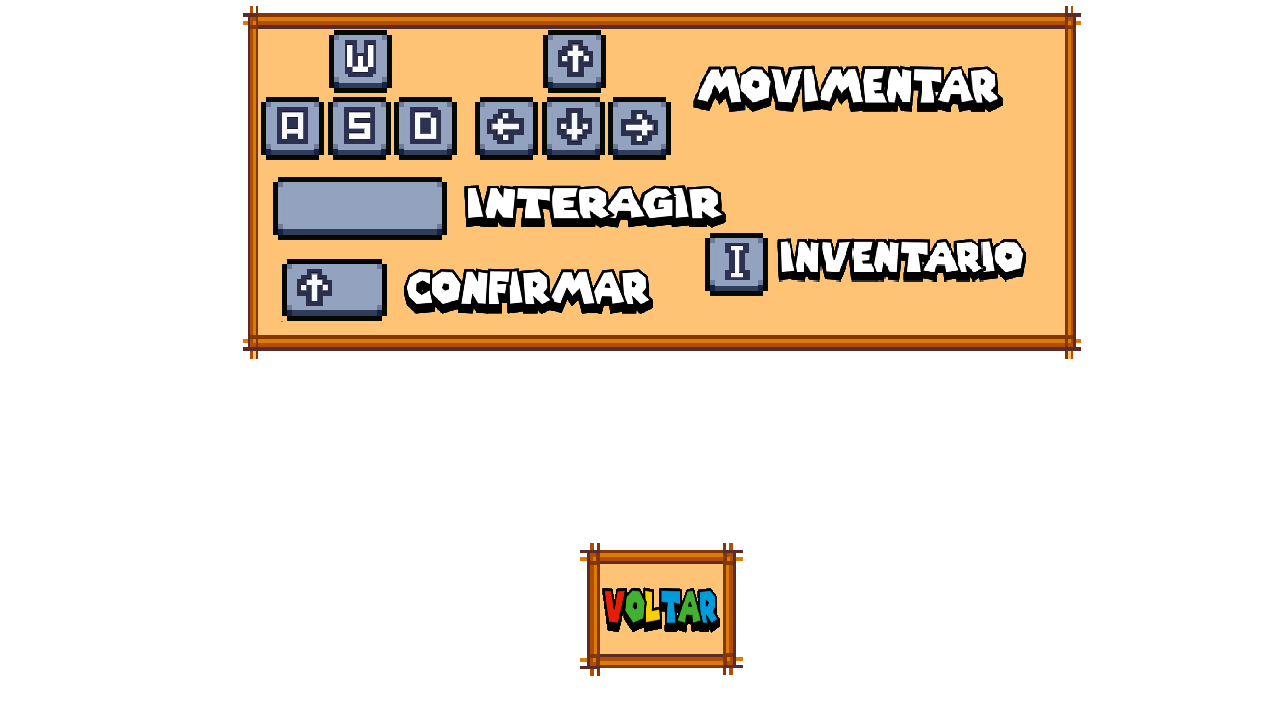
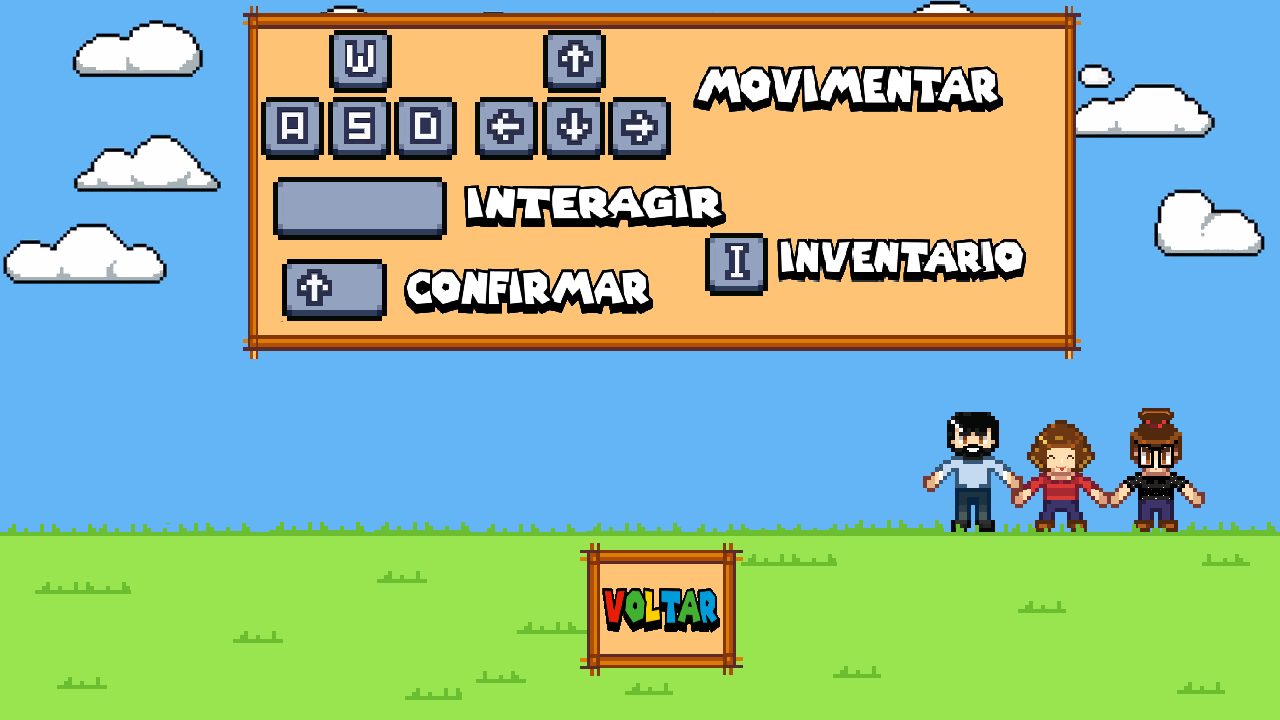
finish home menu // animation fall objects

diff --git a/main.py b/main.py
@@ -1,6 +1,9 @@
 from settings import *
 from pytmx.util_pygame import load_pygame #carrega os mapas
 from os.path import join
+from home import Home
+from credits import Credits
+from game_controls import GameControls
 from sprites import Sprite, AnimatedSprite, CollisionSprite, CollidableSprite, TransitionSprite, DialogSprite, InteractiveSprite
 from entities import Player, Character
 from inventory import Inventory
@@ -19,7 +22,6 @@ class Game:
     def __init__(self): 
         # inicialização
         self.screen = pygame.display.set_mode((WINDOW_WIDTH, WINDOW_HEIGHT))
-        pygame.display.set_caption('Super Labes World')
         self.clock = pygame.time.Clock()
         self.buff_timer = Timer(15000, autostart = True) # 15 segundos
         
@@ -49,9 +51,9 @@ class Game:
 
         # mapa iniciais
         # self.setup(self.tmx_maps['house'], 'house', 'house') #house
-        self.setup(self.tmx_maps['ponto_onibus'], 'ponto_onibus', 'house') #ponto_onibus
+        # self.setup(self.tmx_maps['ponto_onibus'], 'ponto_onibus', 'house') #ponto_onibus
         # self.setup(self.tmx_maps['ufes'], 'ufes', 'ponto_onibus') #ufes
-        # self.setup(self.tmx_maps['ct7'], 'ct7', 'ufes') #ct7
+        self.setup(self.tmx_maps['ct7'], 'ct7', 'ufes') #ct7
         # self.setup(self.tmx_maps['sala_vitor'], 'sala_vitor', 'ct7') #sala_vitor
         # self.setup(self.tmx_maps['sala_monalessa'], 'sala_monalessa', 'ct7') #sala_monalessa
         # self.setup(self.tmx_maps['sala_patricia'], 'sala_patricia', 'ct7') #sala_patricia
@@ -81,45 +83,45 @@ class Game:
         # items iniciais
         self.add_item(Item('0'))
         self.add_item(Item('1'))
-        self.add_item(Item('2'))
+        # self.add_item(Item('2'))
         self.add_item(Item('4'))
-        self.add_item(Item('4'))
-        self.add_item(Item('4'))
-        self.add_item(Item('4'))
-        self.add_item(Item('4'))
-        self.add_item(Item('4'))
-        self.add_item(Item('4'))
-        self.add_item(Item('4'))
-        self.add_item(Item('4'))
-        self.add_item(Item('4'))
-        self.add_item(Item('4'))
-        self.add_item(Item('4'))
-        self.add_item(Item('4'))
-        self.add_item(Item('4'))
-        self.add_item(Item('4'))
-        self.add_item(Item('4'))
-        self.add_item(Item('4'))
-        self.add_item(Item('4'))
-        self.add_item(Item('4'))
-        self.add_item(Item('4'))
-        self.add_item(Item('4'))
-        self.add_item(Item('4'))
-        self.add_item(Item('4'))
-        self.add_item(Item('4'))
-        self.add_item(Item('4'))
-        self.add_item(Item('4'))
-        self.add_item(Item('4'))
-        self.add_item(Item('4'))
-        self.add_item(Item('4'))
-        self.add_item(Item('4'))
-        self.add_item(Item('4'))
-        self.add_item(Item('4'))
-        self.add_item(Item('4'))
-        self.add_item(Item('4'))
-        self.add_item(Item('4'))
-        self.add_item(Item('4'))
-        self.add_item(Item('4'))
-        self.add_item(Item('4'))
+        # self.add_item(Item('4'))
+        # self.add_item(Item('4'))
+        # self.add_item(Item('4'))
+        # self.add_item(Item('4'))
+        # self.add_item(Item('4'))
+        # self.add_item(Item('4'))
+        # self.add_item(Item('4'))
+        # self.add_item(Item('4'))
+        # self.add_item(Item('4'))
+        # self.add_item(Item('4'))
+        # self.add_item(Item('4'))
+        # self.add_item(Item('4'))
+        # self.add_item(Item('4'))
+        # self.add_item(Item('4'))
+        # self.add_item(Item('4'))
+        # self.add_item(Item('4'))
+        # self.add_item(Item('4'))
+        # self.add_item(Item('4'))
+        # self.add_item(Item('4'))
+        # self.add_item(Item('4'))
+        # self.add_item(Item('4'))
+        # self.add_item(Item('4'))
+        # self.add_item(Item('4'))
+        # self.add_item(Item('4'))
+        # self.add_item(Item('4'))
+        # self.add_item(Item('4'))
+        # self.add_item(Item('4'))
+        # self.add_item(Item('4'))
+        # self.add_item(Item('4'))
+        # self.add_item(Item('4'))
+        # self.add_item(Item('4'))
+        # self.add_item(Item('4'))
+        # self.add_item(Item('4'))
+        # self.add_item(Item('4'))
+        # self.add_item(Item('4'))
+        # self.add_item(Item('4'))
+        # self.add_item(Item('4'))
 
 # ------------------------------------------------------------------------------------------------------------------------------------
     #  Computer functions
@@ -207,7 +209,7 @@ class Game:
 
         # Objetos em cima do terreno sem colisão (tapetes) 
         try:
-            for obj in tmx_map.get_layer_by_name('Terrain Objects'):
+            for obj in tmx_map.get_layer_by_name('Terrain Objects').tiles():
                 Sprite((obj.x, obj.y), obj.image, self.all_sprites, GAME_LAYERS['bg'])
         except ValueError as ve:
             pass
@@ -540,47 +542,51 @@ class Game:
 
 # Menu Inicial
 if __name__ == '__main__':
-        initial_screen = pygame.display.set_mode((WINDOW_WIDTH, WINDOW_HEIGHT))
-        index = 0
-        # seila = pygame.image.load('graphics/interface/opening_interface.png')
-        pygame.init()
-        opening_music = pygame.mixer.Sound('./audios/opening.wav').play()
-        index_plus_sound = pygame.mixer.Sound('./sounds/index_plus.wav')
-        index_less_sound = pygame.mixer.Sound('./sounds/index_less.wav')
-        select_sound = pygame.mixer.Sound('./sounds/select.wav')
-        menu_frames = {'interface': import_folder_dict('.', 'graphics', 'interface') }
+    pygame.init()
+    pygame.display.set_caption('Super Labes World')
 
-        while True:
-            for event in pygame.event.get():
-                index = index % 3
-                new_rect = pygame.Rect(363,564,123,90) if index == 0 else pygame.Rect(601,564,123,90) if index == 1 else pygame.Rect(837,564,123,90)
-                icon = menu_frames['interface']['new'] if index == 0 else menu_frames['interface']['credits'] if index == 1 else menu_frames['interface']['exit']
-                if event.type == pygame.QUIT:
-                    pygame.quit()
-                    exit()
-                if event.type == pygame.KEYDOWN:
-                    if event.key == pygame.K_d or event.key == pygame.K_RIGHT:
-                        index += 1
-                        index_plus_sound.play()
-                        break
-                    if event.key == pygame.K_a or event.key == pygame.K_LEFT:
-                        index -= 1
-                        index_less_sound.play()
-                    if index == 0 and (event.key == pygame.K_SPACE or event.key == pygame.K_RETURN):
-                        opening_music.stop()
-                        select_sound.play()
-                        game = Game()
-                        game.run()
-                    if index == 1 and (event.key == pygame.K_SPACE or event.key == pygame.K_RETURN):
-                        select_sound.play()
-                        print('credits')
-                    if index == 2 and (event.key == pygame.K_SPACE or event.key == pygame.K_RETURN):
-                        pygame.quit()
-                        exit()
-                else:
-                    initial_screen.blit(menu_frames['interface']['opening_interface'])
-                    initial_screen.blit(icon, new_rect, special_flags = pygame.BLEND_RGB_ADD)
-                    pygame.display.update()
+    home_open = True
+    credits_open = False
+    controls_open = False
+    
+    def run_game():
+        global home_open; home_open = False
 
+    def run_credits():
+        global credits_open; credits_open = True
+        global home_open; home_open = False
+
+    def end_credits():
+        global credits_open; credits_open = False
+        global home_open; home_open = True
+
+    def run_game_controls():
+        global controls_open; controls_open = True
+        global home_open; home_open = False
+
+    def end_game_controls():
+        global controls_open; controls_open = False
+        global home_open; home_open = True
+
+
+    home = Home(run_game,run_credits,run_game_controls)
+    credits = Credits(end_credits)
+    controls = GameControls(end_game_controls)
+
+    while home_open or credits_open or controls_open:
+        for event in pygame.event.get():
+            if event.type == pygame.QUIT:
+                pygame.quit()
+                exit()
+            elif credits_open:
+                credits.update()
+            elif controls_open:
+                controls.update()
+            else:
+                home.update()
+            pygame.display.update()
+
+    game = Game()
+    game.run()
 
 

diff --git a/home.py b/home.py
@@ -1,16 +1,30 @@
 import pygame
-from support import import_folder_dict, audio_importer
+from support import import_folder_dict, audio_importer, import_character
 from settings import *
+from random import randint, choice
 
+
+ITEMS_FRAMES = ("down", "left", "right", "up")
 class Home:
     def __init__(self, run_game, run_credits, run_game_controls):    
         self.initial_screen = pygame.display.set_mode((WINDOW_WIDTH, WINDOW_HEIGHT))
         self.menu_frames = {'interface': import_folder_dict('.', 'graphics', 'interface') }
+        self.fall_items = import_character(4, 4, '.', 'graphics', 'fall_objects', 'fall_objects')
         self.audios = audio_importer('.', 'audios')
         self.sounds = audio_importer('.', 'sounds')
         self.index = 0
         self.audios['opening'].play(-1)
 
+        # movement
+        self.x = 0
+        self.y = 0
+        self.speed = 10
+        self.object_rect = pygame.Rect(randint(100, 1180), randint(-50, 0), 0, 0)
+        self.object_surf = self.fall_items['down'][0]
+        self.fall_objects_list = self.generate_list_fall_objects()
+        self.qtd_items = 20
+
+        # callbacks
         self.run_game = run_game
         self.run_credits = run_credits
         self.run_game_controls = run_game_controls
@@ -30,24 +44,48 @@ class Home:
         if keys[pygame.K_LEFT]:
             self.sounds['index_less'].play()
             self.index -= 1
-        if self.index == 0 and (keys[pygame.K_SPACE] or keys[pygame.K_RETURN]):
+        if self.index == 0 and keys[pygame.K_RETURN]:
             self.sounds['select'].play()
             self.audios['opening'].stop()
             self.run_game()
-        if self.index == 1 and (keys[pygame.K_SPACE] or keys[pygame.K_RETURN]):
+        if self.index == 1 and keys[pygame.K_RETURN]:
             self.sounds['select'].play()
             self.run_credits()
-        if self.index == 2 and (keys[pygame.K_SPACE] or keys[pygame.K_RETURN]):
+        if self.index == 2 and keys[pygame.K_RETURN]:
             self.sounds['select'].play()
             self.run_game_controls()
-        if self.index == 3 and (keys[pygame.K_SPACE] or keys[pygame.K_RETURN]):
+        if self.index == 3 and keys[pygame.K_RETURN]:
             pygame.quit()
             exit()
+
+    def fall_objects(self):  
+        self.object_rect.y += self.move_y(self.speed)
+        for rect, surf in self.fall_objects_list:
+            rect.y += self.speed
+            self.initial_screen.blit(surf, rect)
+            if rect.y > WINDOW_HEIGHT:
+                self.fall_objects_list.remove((rect, surf))
+                self.fall_objects_list.append(self.generate_fall_objects())
+
+    def generate_fall_objects(self):
+        random = randint(0, 360)
+        return pygame.Rect(randint(50, WINDOW_WIDTH - 50), randint(-500, 0), 0, 0), pygame.transform.rotate(self.fall_items[choice(ITEMS_FRAMES)][random % 4], random)
+    
+    def generate_list_fall_objects(self):
+        return [self.generate_fall_objects() for _ in range(10)]
+    
+    def move_y(self, speed):
+        if True:
+            self.y += speed
+            if self.object_rect.y > WINDOW_HEIGHT:
+                self.object_rect, self.object_surf = self.generate_fall_objects()
+        return self.y
 
     def update(self):
         self.initial_screen.fill(COLORS['black'])
         self.initial_screen.blit(self.menu_frames['interface']['opening_interface'])
-        self.input()
         self.draw_menu()
-        print(self.index)
+        self.fall_objects()
+        self.input()
+        print(self.y)
 

diff --git a/battle.py b/battle.py
@@ -4,8 +4,7 @@ from timer import Timer
 from support import import_image
 from dialog import DialogSprite
 from game_data import CORRECTS_SPEAKS, WRONGS_SPEAKS
-# CORRECTS_SPEAKS =[ 'essa tava']
-# WRONGS_SPEAKS = ['Que pena! Você errou!', 'Não foi dessa vez! Você errou!', 'Você errou!']
+
 class Battle():
     def __init__(self, player, character, interface_frames, fonts, end_battle, sounds):
         self.player = player
@@ -64,14 +63,10 @@ class Battle():
             rect_C = pygame.Rect(632, 630, self.rect_width, self.rect_height)
             rect_D = pygame.Rect(942, 630, self.rect_width, self.rect_height)
             question_rect = pygame.Rect(93, 29, 421, 99)
-            self.icon = self.interface_frames['interface'][str(self.option)]
             name_rect = pygame.Rect(838, 370, 0, 0)
             level_rect = pygame.Rect(844, 396, 0, 0)
 
-
-            # character animation
-            # self.frame_index += ANIMATION_SPEED * dt 
-            # character_surf = self.character_frames['up' if self.error_mode else 'left'][int(self.frame_index % 4)] # animation
+            self.icon = self.interface_frames['interface'][str(self.option)]
             # player
             player_surf = self.player_frames
             
@@ -94,11 +89,15 @@ class Battle():
                     self.x = self.move_x(dt, 120, 50)
                     self.y = self.move_y(dt, 200, 50)
 
+            # character animation
             self.character_rect = pygame.Rect(853 + self.x, 137 + self.y, 192, 192)
             character_surf = self.character_frames['up' if self.error_mode else 'left'][int(self.frame_index % 4)] # animation
 
+            # teacher character 
             self.display_surface.blit(pygame.transform.scale(character_surf,(192,192)), self.character_rect)
+            # shadow
             self.display_surface.blit(pygame.transform.scale(self.shadow, (78,30)), self.character_rect.midbottom + vector(-36,-20))
+            # player character
             self.display_surface.blit(player_surf, (148 + (self.x // 3), 284))
 
             # surfaces

diff --git a/credits.py b/credits.py
@@ -19,7 +19,6 @@ class Credits:
         icon = self.menu_frames['interface']['github'] if self.index == 0 else self.menu_frames['interface']['voltar']
         self.display_surface.blit(self.menu_frames['interface']['credits_interface'])
         self.display_surface.blit(icon, new_rect, special_flags = pygame.BLEND_RGB_ADD)
-        # pygame.display.update()
 
     def input(self):
         keys = pygame.key.get_just_pressed()
@@ -42,5 +41,4 @@ class Credits:
         self.display_surface.blit(self.menu_frames['interface']['credits_interface'])
         self.input()
         self.draw_menu()
-        print(self.index)
 
